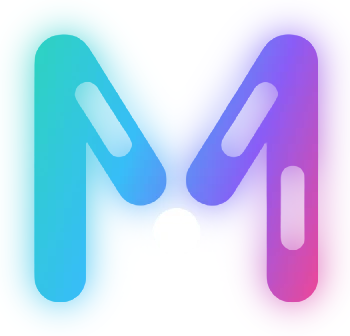
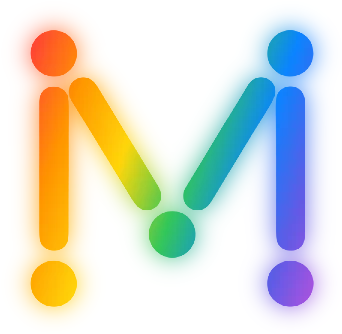
Titel: neuer Schriftzug mit Punkte-M im Regenbogenverlauf
Claude-Session: https://claude.ai/code/session_016MMXsLCFvcUDm48waURrE4

diff --git a/startszene/index.html b/startszene/index.html
@@ -482,7 +482,7 @@
     box-shadow:inset 0 0 2.5vmin rgba(0,10,20,.6),inset .5vmin .7vmin 1.2vmin rgba(0,0,0,.4)}
   #titel{position:fixed;left:0;right:0;top:50%;z-index:7;text-align:center;color:#eaf6ff;opacity:0;pointer-events:none;
     font-family:Georgia,'Times New Roman',serif;transform:translateY(-50%)}
-  #titel h1{margin:0 auto;position:relative;width:min(92vw,940px);aspect-ratio:1938/336}
+  #titel h1{margin:0 auto;position:relative;width:min(92vw,940px);aspect-ratio:1946/334}
   #titel h1 img{position:absolute;top:0;height:100%;display:block}
   #tcur{position:absolute;bottom:9%;height:3.5%;border-radius:1em;background:#9fe3ff;box-shadow:0 0 .6em #6fd0ff;display:none;
     transition:left .15s ease,width .15s ease;animation:tCursor .5s steps(2) infinite}
@@ -965,7 +965,7 @@
   /* ---------- Titel: wird wie mit einer Morsetaste eingetippt ---------- */
   const TMC={M:'--',O:'---',R:'.-.',S:'...',E:'.',C:'-.-.',A:'.-',H:'....'};
   const TTEXT='Morse Coach', th1=titel.querySelector('h1'), tcode=document.getElementById('tcode');
-  const TPOS=[{"l": 0.0, "w": 18.06}, {"l": 15.893, "w": 11.249}, {"l": 25.077, "w": 9.082}, {"l": 31.269, "w": 11.146}, {"l": 39.938, "w": 11.249}, {"l": 52.219, "w": 12.074}, {"l": 61.92, "w": 11.352}, {"l": 70.691, "w": 11.558}, {"l": 79.773, "w": 11.249}, {"l": 88.751, "w": 11.249}];   // Lage der Buchstabenbilder in % der Schriftzugbreite
+  const TPOS=[{"l": 0.0, "w": 17.575}, {"l": 15.93, "w": 10.997}, {"l": 25.18, "w": 8.684}, {"l": 31.398, "w": 10.791}, {"l": 40.031, "w": 11.048}, {"l": 52.415, "w": 11.819}, {"l": 62.179, "w": 10.997}, {"l": 71.017, "w": 11.202}, {"l": 80.062, "w": 10.894}, {"l": 89.054, "w": 10.946}];   // Lage der Buchstabenbilder in % der Schriftzugbreite
   let bi=0;
   th1.innerHTML=[...TTEXT].map(c=>{ if(c===' ') return '<b class="leer"></b>'; const d=TPOS[bi]; return `<img class="tb" alt="" src="img/titel/t${bi++}.webp" style="left:${d.l}%;width:${d.w}%">`; }).join('')+'<i id="tcur"></i>';
   const tSpans=[...th1.querySelectorAll('.tb,.leer')], tcur=th1.querySelector('#tcur');

diff --git a/index.html b/index.html
@@ -18,7 +18,7 @@
   <!-- Startseite: Meer-Animation, Titel und Karten der Lernbereiche (startszene/).
        Ein Klick auf eine Karte öffnet den Bereich; „Startseite“ in der Leiste führt zurück zu den Karten. -->
   <div id="intro" aria-label="Startseite">
-    <iframe id="introFrame" title="Morse Coach – Startseite" src="startszene/index.html?eingebettet&v=13"></iframe>
+    <iframe id="introFrame" title="Morse Coach – Startseite" src="startszene/index.html?eingebettet&v=14"></iframe>
   </div>
   <header class="topbar" id="topbar">
     <button id="brand" class="brand" title="Zur Startseite" aria-label="Morse Coach – zur Startseite">Morse<span>Coach</span></button>

diff --git a/sw.js b/sw.js
@@ -1,5 +1,5 @@
 /* Einfacher Offline-Cache: die Seite funktioniert nach dem ersten Laden auch ohne Netz. */
-const CACHE = 'morse-v13';
+const CACHE = 'morse-v14';
 // Grundgerüst der App; die Bilder der Meer-Animation (startszene/) landen beim ersten Laden automatisch im Cache.
 // (Die Icons fehlen im Repo noch – sobald der Ordner icons/ da ist, hier wieder eintragen.)
 const FILES = ['./', 'index.html', 'css/style.css', 'css/intro.css', 'js/morse.js', 'js/storage.js', 'js/game.js',
